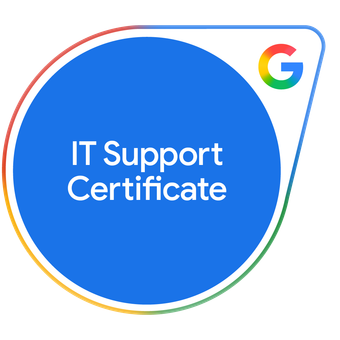
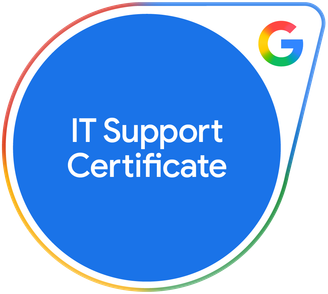
style: trim and enlarge certificate badge

diff --git a/certificates/index.html b/certificates/index.html
@@ -41,7 +41,7 @@
 <article>
   <h1 class="page-title">Certificates</h1>
   <div class="entry">
-    <h2>Google IT Support Professional Certificate<img class="cert-badge" src="/images/google-it-support-badge.png" height="40" alt="Google IT Support Certificate badge"></h2>
+    <h2>Google IT Support Professional Certificate<img class="cert-badge" src="/images/google-it-support-badge.png" height="52" alt="Google IT Support Certificate badge"></h2>
     <p class="when">Google &middot; Coursera</p>
     <p>Professional certificate from Google on Coursera covering technical support fundamentals, computer networking, operating systems, system administration and IT security.</p>
     <ul class="links"><li><a href="https://www.coursera.org/account/accomplishments/specialization/0XX7JA2E66JU" target="_blank" rel="noopener noreferrer">view credential</a></li></ul>

diff --git a/css/styles.css b/css/styles.css
@@ -2836,5 +2836,5 @@ html.vt-leave::view-transition-new(page) { animation: none; opacity: 1 }
 }
 
 /* Certificates: badge to the right of the title */
-.cert-badge { display: block; width: auto; height: 2.5rem; flex: none }
-@media (max-width: 480px) { .cert-badge { height: 2rem } }
+.cert-badge { display: block; width: auto; height: 3.25rem; flex: none }
+@media (max-width: 480px) { .cert-badge { height: 2.5rem } }

diff --git a/AGENTS.md b/AGENTS.md
@@ -126,7 +126,7 @@ No build step: `python3 -m http.server 8000`. `api/hi.js` only works on Vercel. 
 - `certificates/index.html`, served as `/certificates`, nav item right under Projects. Same shell as Experience: `<article>` with `<h1 class="page-title">Certificates</h1>`, then one `.entry` per certificate. No page-specific CSS: it reuses the Experience `.entry` and `.when` styles, plus `ul.links` for the optional "view credential" link (new tab, `rel="noopener noreferrer"`).
 - Entry: `h2` is the certificate name, `.when` is "Issuer &middot; platform &middot; Issued Mon YYYY" (use the `&middot;` entity), then one short factual paragraph, then the credential link if there is one. List only certificates that are earned and real, newest first. Don't add issuer logos unless they are self-hosted in `images/` like the FlyRank one.
 - Wired in `js/home.js` (the `warm()` prefetch list and the `inPage` regex), `sitemap.xml` and the sidebar nav on every page. The active nav item matches by `href`, so `setActive` needed no change.
-- Badge: `images/google-it-support-badge.png` sits inside the `h2`, right after the title text, as `<img class="cert-badge">` (2.5rem tall, 2rem under 480px, rule at the end of `css/styles.css`). It is not an `.org-logo`, because those rules size small wordmarks inside the `h2`. Use a badge only when it is self-hosted in `images/`.
+- Badge: `images/google-it-support-badge.png` sits inside the `h2`, right after the title text, as `<img class="cert-badge">` (3.25rem tall, 2.5rem under 480px, transparent padding trimmed from the PNG, rule at the end of `css/styles.css`). It is not an `.org-logo`, because those rules size small wordmarks inside the `h2`. Use a badge only when it is self-hosted in `images/`.
 - Adding another certificate: copy the `.entry` block inside the `<article>`. Keep one `<h2>` per entry.
 
 ## Navigation
